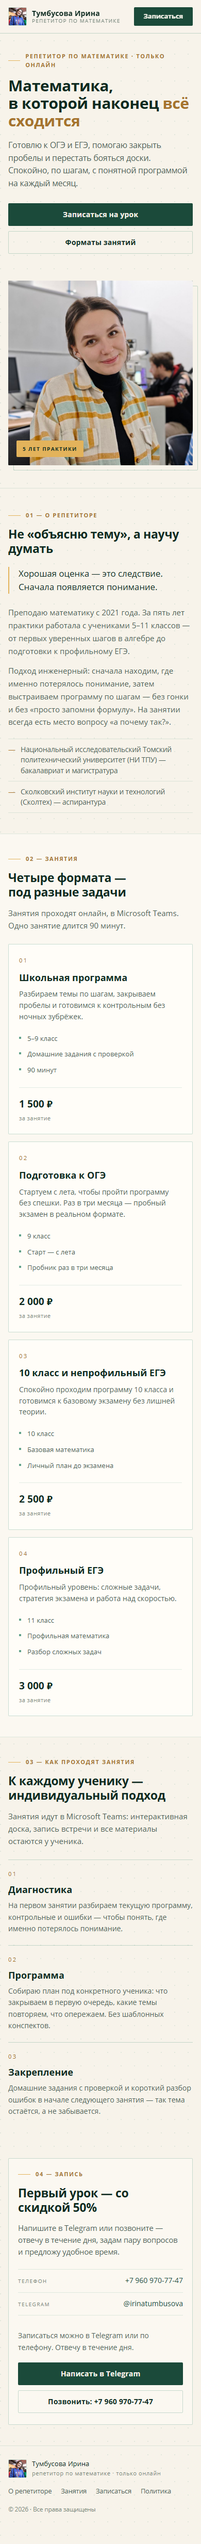
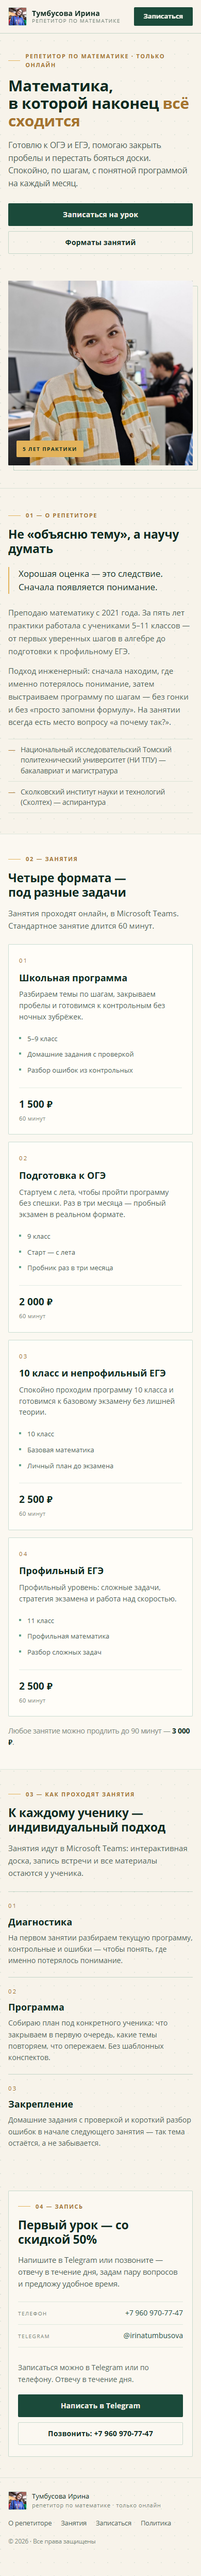
Цены: 60 минут по форматам, 90 минут за 3000

Changed region(s): [[0.0308, 0.0, 0.9538, 0.9992], [0.6462, 0.4371, 0.8308, 0.4684]]

diff --git a/index.html b/index.html
@@ -130,7 +130,8 @@
           <p class="label">02 — Занятия</p>
           <h2>Четыре формата — под&nbsp;разные задачи</h2>
           <p class="section__lead">
-            Занятия проходят онлайн, в Microsoft Teams. Одно занятие длится 90 минут.
+            Занятия проходят онлайн, в Microsoft Teams. Стандартное занятие длится
+            60 минут.
           </p>
         </div>
 
@@ -145,9 +146,9 @@
             <ul class="card__list">
               <li>5–9 класс</li>
               <li>Домашние задания с проверкой</li>
-              <li>90 минут</li>
+              <li>Разбор ошибок из контрольных</li>
             </ul>
-            <p class="card__price">1 500 ₽ <span>за занятие</span></p>
+            <p class="card__price">1 500 ₽ <span>60 минут</span></p>
           </article>
 
           <article class="card">
@@ -162,7 +163,7 @@
               <li>Старт — с лета</li>
               <li>Пробник раз в три месяца</li>
             </ul>
-            <p class="card__price">2 000 ₽ <span>за занятие</span></p>
+            <p class="card__price">2 000 ₽ <span>60 минут</span></p>
           </article>
 
           <article class="card">
@@ -177,7 +178,7 @@
               <li>Базовая математика</li>
               <li>Личный план до экзамена</li>
             </ul>
-            <p class="card__price">2 500 ₽ <span>за занятие</span></p>
+            <p class="card__price">2 500 ₽ <span>60 минут</span></p>
           </article>
 
           <article class="card">
@@ -192,9 +193,13 @@
               <li>Профильная математика</li>
               <li>Разбор сложных задач</li>
             </ul>
-            <p class="card__price">3 000 ₽ <span>за занятие</span></p>
+            <p class="card__price">2 500 ₽ <span>60 минут</span></p>
           </article>
         </div>
+
+        <p class="formats__note">
+          Любое занятие можно продлить до 90 минут — <strong>3 000 ₽</strong>.
+        </p>
       </div>
     </section>
 

diff --git a/styles.css b/styles.css
@@ -520,6 +520,17 @@ a:focus-visible {
   color: var(--muted);
 }
 
+.formats__note {
+  margin: 18px 0 0;
+  font-size: 13.5px;
+  color: var(--muted);
+}
+
+.formats__note strong {
+  font-weight: 700;
+  color: var(--ink);
+}
+
 .card__list li {
   position: relative;
   padding: 5px 0 5px 16px;
